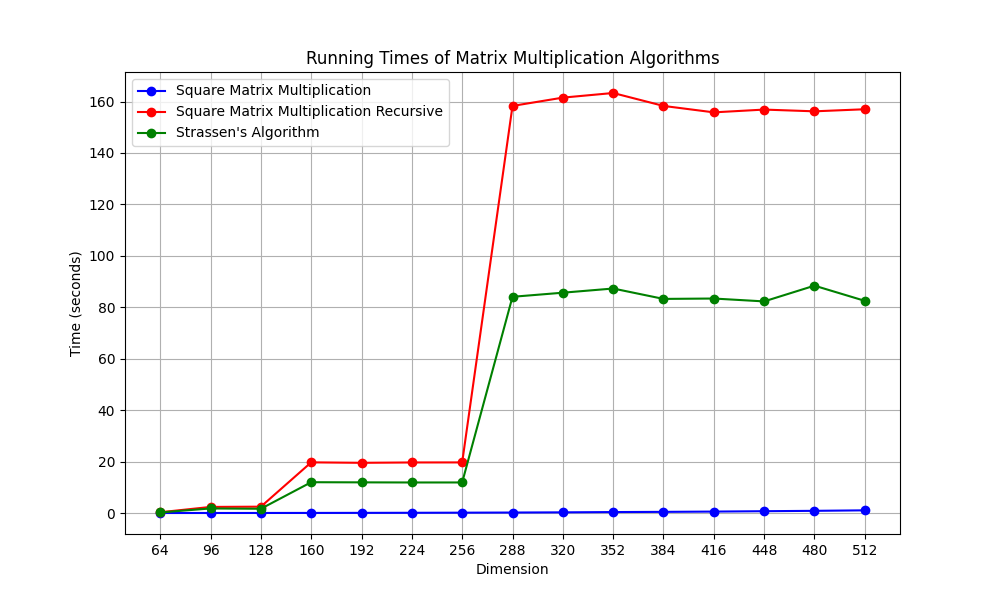
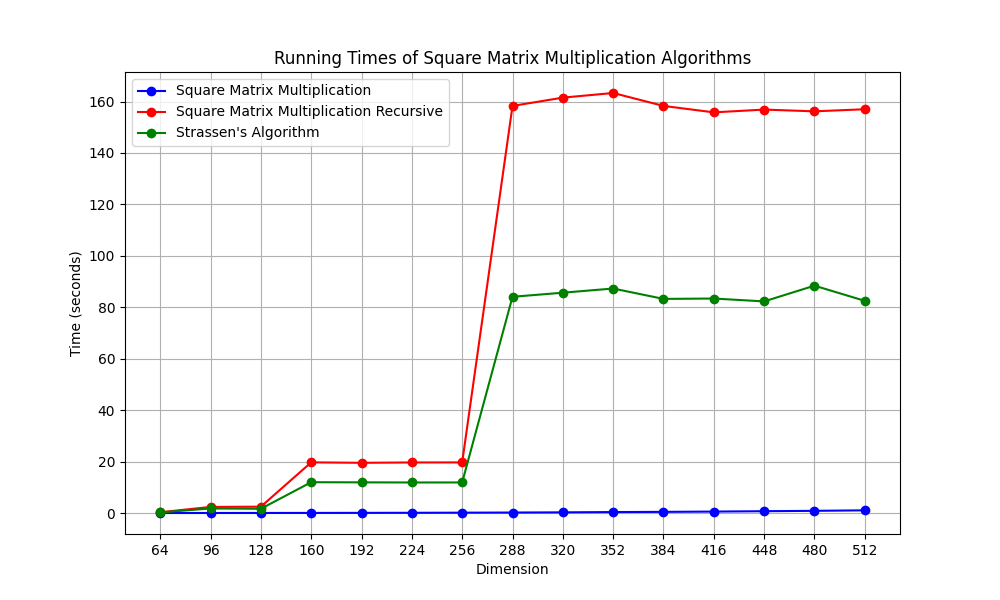
Fix: plot title

Changed region(s): [[0.279, 0.09, 0.744, 0.12]]

diff --git a/Assignment 1/plot_matrix_multiplication_times.py b/Assignment 1/plot_matrix_multiplication_times.py
@@ -17,7 +17,7 @@ plt.plot(dimensions, recursive_times, label="Square Matrix Multiplication Recurs
 plt.plot(dimensions, strassen_times, label="Strassen's Algorithm", marker='o', color='green')
 
 # Customize the plot
-plt.title('Running Times of Matrix Multiplication Algorithms')
+plt.title('Running Times of Square Matrix Multiplication Algorithms')
 plt.xlabel('Dimension')
 plt.xticks([64, 96, 128, 160, 192, 224, 256, 288, 320, 352, 384, 416, 448, 480, 512])
 plt.ylabel('Time (seconds)')
